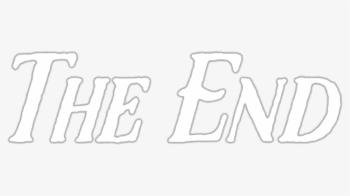
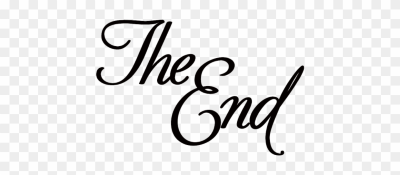
게임오버, 클리어 state 수정3

diff --git a/boy.py b/boy.py
@@ -97,10 +97,10 @@ class RunState:
         boy.x = clamp(25, boy.x, 800 - 25)
         boy.y += boy.high * game_framework.frame_time
         boy.y = clamp(25, boy.y, 600 - 25)
-        RunState.soundcheck += 1
-        if soundcheck == 100:
-            boy.walking()
-            soundcheck = 0
+        # RunState.soundcheck += 1
+        # if RunState.soundcheck == 100:
+        #     boy.walking()
+        #     RunState.soundcheck = 0
         server.x, server.y = boy.x, boy.y
 
     @staticmethod
@@ -222,7 +222,8 @@ class DeadState:
         self.frame = (self.frame + 0.5 * FRAMES_PER_ACTION * ACTION_PER_TIME * game_framework.frame_time) % 4
         self.timer -= 2
         if self.timer == 0:
-            server.gameover = 1
+            # server.gameover = 1
+            server.end = 1
             # self.add_event(READY)
 
     def draw(self):

diff --git a/main_state.py b/main_state.py
@@ -69,7 +69,7 @@ def update():
     for game_object in game_world.all_objects():
         game_object.update()
 
-    if server.gameover == 1:
+    if server.gameover == 1 or server.end == 1:
         game_framework.change_state(pass_state)
     # for mushroom in server.mushrooms:
     #     if collide(server.boy, mushroom):

diff --git a/server.py b/server.py
@@ -1,7 +1,7 @@
 
 x, y = 0, 0
 gameover = 0
-finish = 0
+end = 0
 boy = None
 grass = None
 inven = None
